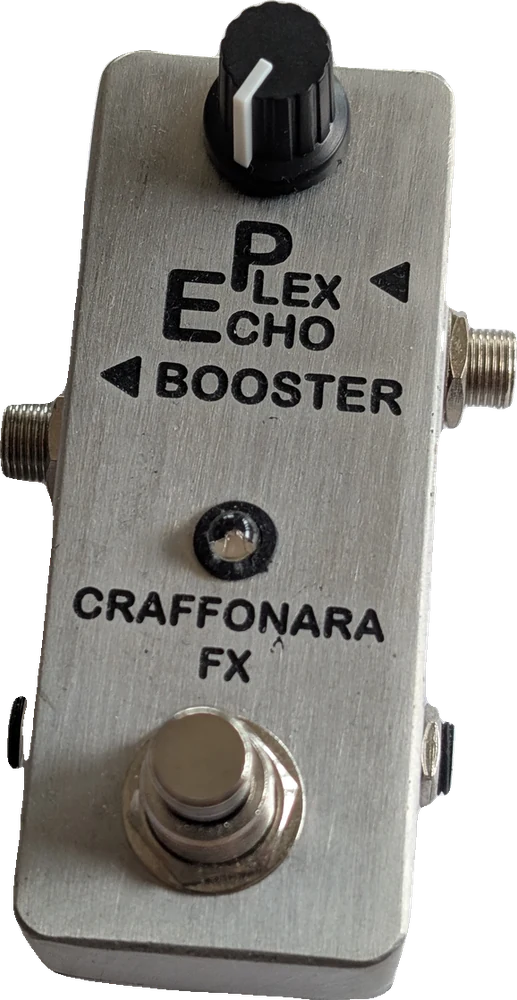
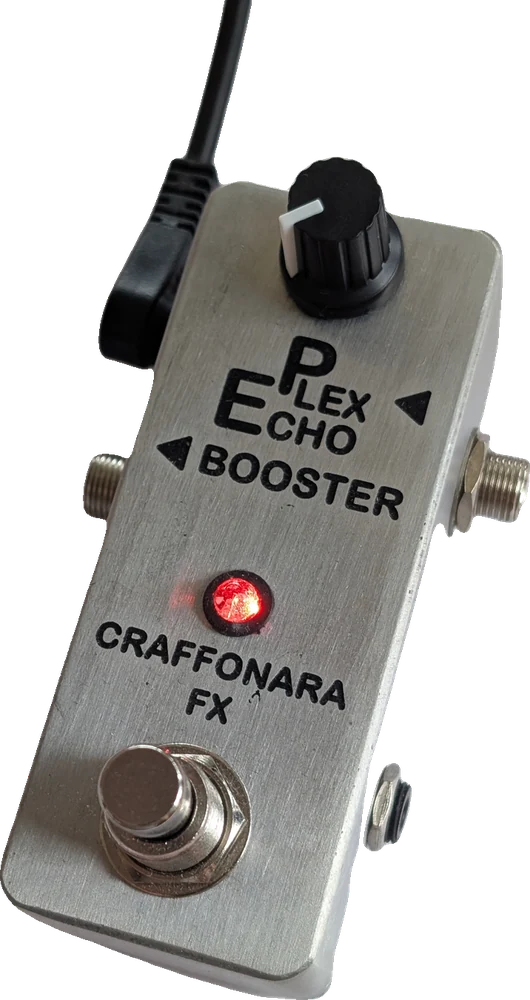
update

diff --git a/products.js b/products.js
@@ -57,8 +57,76 @@ const PRODUCTS = [
                 "9–18 V DC Center-Negative — mit 18 V für mehr Headroom und Dynamik",
             ],
         },
-        image: "img/ocd-top.webp",
+        image: "img/ocd-hero.webp",
         gallery: ["img/ocd-hero.webp", "img/ocd-top.webp", "img/ocd-side.webp", "img/ocd-angle.webp"],
+    },
+    {
+        id: "klon-dual-preset",
+        name: "KLON — Dual Preset MIDI Drive",
+        category: "custom",
+        price: { en: "on request", de: "auf Anfrage" },
+        status: "built-to-order",
+        color: "#A7ACB4",
+        knobs: 5,
+        switches: 1,
+        blurb: {
+            en: "High-end adaptation of the legendary Klon Centaur with the original circuit. Doubled Gain and Treble pots with relay-switched presets, germanium or LED clipping, and full MIDI control.",
+            de: "Highend-Adaption des legendären Klon Centaur mit der Originalbeschaltung. Doppelte Gain- und Treble-Potis mit relaisgeschalteten Presets, Germanium- oder LED-Clipping und vollständige MIDI-Steuerung.",
+        },
+        specs: {
+            en: [
+                "Original Klon Centaur circuit — GAIN, TREBLE, VOL",
+                "Dual GAIN + TREBLE presets, relay-switched: LED off = upper pot, LED on = lower pot",
+                "CLIP toggle: GE = stock germanium diodes, LD = LED clipping for a more aggressive drive",
+                "MIDI IN / THRU (TRS): CC 00 recalls all four combos, CC 10/30 per channel",
+                "Silent soft-touch footswitch, relay true bypass",
+                "9 V DC center-negative only — do NOT run at 18 V",
+            ],
+            de: [
+                "Originale Klon-Centaur-Schaltung — GAIN, TREBLE, VOL",
+                "Duale GAIN- + TREBLE-Presets, relaisgeschaltet: LED aus = oberes Poti, LED an = unteres Poti",
+                "CLIP-Schalter: GE = originale Germanium-Dioden, LD = LED-Clipping für aggressiveren Drive",
+                "MIDI IN / THRU (TRS): CC 00 ruft alle vier Kombis ab, CC 10/30 pro Kanal",
+                "Geräuschloser Soft-Touch-Fußschalter, Relais True Bypass",
+                "Nur 9 V DC Center-Negative — NICHT mit 18 V betreiben",
+            ],
+        },
+        image: "img/klon-hero.webp",
+        gallery: ["img/klon-hero.webp", "img/klon-top.webp", "img/klon-side.webp", "img/klon-angle.webp"],
+    },
+    {
+        id: "univibe-dual-preset",
+        name: "UNI VIBE — Dual Preset MIDI Vibe",
+        category: "custom",
+        price: { en: "on request", de: "auf Anfrage" },
+        status: "built-to-order",
+        color: "#A7ACB4",
+        knobs: 6,
+        switches: 1,
+        blurb: {
+            en: "Classic Uni-Vibe swirl with doubled Speed and Depth pots, relay-switched presets and full MIDI control. The MIX knob blends the effect signal, and MODE switches between chorus/vibe and tremolo.",
+            de: "Klassischer Uni-Vibe-Swirl mit doppelten Speed- und Depth-Potis, relaisgeschalteten Presets und vollständiger MIDI-Steuerung. Der MIX-Regler blendet das Effektsignal, MODE schaltet zwischen Chorus/Vibe und Tremolo um.",
+        },
+        specs: {
+            en: [
+                "Dual SPEED + DEPTH presets, relay-switched — by soft-touch button or MIDI",
+                "MIX control blends the vibe/tremolo signal with your dry tone",
+                "MODE button switches between vibe and tremolo (green LED ring)",
+                "VOL control for unity or boosted output",
+                "MIDI IN / THRU (TRS) for preset recall and effect switching",
+                "Silent soft-touch footswitch, 9 V DC center-negative",
+            ],
+            de: [
+                "Duale SPEED- + DEPTH-Presets, relaisgeschaltet — per Soft-Touch-Taster oder MIDI",
+                "MIX-Regler blendet das Vibe-/Tremolo-Signal mit deinem trockenen Ton",
+                "MODE-Taster schaltet zwischen Vibe und Tremolo um (grüner LED-Ring)",
+                "VOL-Regler für Unity-Gain oder Boost",
+                "MIDI IN / THRU (TRS) für Preset-Abruf und Effekt-Schaltung",
+                "Geräuschloser Soft-Touch-Fußschalter, 9 V DC Center-Negative",
+            ],
+        },
+        image: "img/univibe-hero.webp",
+        gallery: ["img/univibe-hero.webp", "img/univibe-top.webp", "img/univibe-angle.webp", "img/univibe-angle2.webp"],
     },
     {
         id: "ep-booster",
@@ -91,7 +159,7 @@ const PRODUCTS = [
                 "9–18 V DC Center-Negative — 18 V für mehr Headroom",
             ],
         },
-        image: "img/ep-top.webp",
+        image: "img/ep-hero.webp",
         gallery: ["img/ep-hero.webp", "img/ep-top.webp", "img/ep-side.webp", "img/ep-angle.webp"],
     },
 ];

diff --git a/index.html b/index.html
@@ -30,6 +30,10 @@
 <link rel="preconnect" href="https://fonts.gstatic.com" crossorigin>
 <link href="https://fonts.googleapis.com/css2?family=Big+Shoulders+Display:wght@600;700;800&family=Archivo:wght@400;500;600&family=IBM+Plex+Mono:wght@400;500&family=Caveat:wght@600&display=swap" rel="stylesheet">
 <link rel="icon" type="image/svg+xml" href="logos/logo-midi-badge.svg">
+<link rel="icon" type="image/png" sizes="48x48" href="img/favicon-48.png">
+<link rel="icon" type="image/png" sizes="96x96" href="img/favicon-96.png">
+<link rel="icon" type="image/png" sizes="192x192" href="img/favicon-192.png">
+<link rel="apple-touch-icon" sizes="180x180" href="img/apple-touch-icon.png">
 <style>
     /* ============================================================
        CRAFFONARA FX — design tokens
@@ -432,7 +436,7 @@
     }
     .card:hover .mini-led { fill: var(--led); filter: drop-shadow(0 0 6px var(--led-glow)); }
     .card-art {
-        background: var(--panel-2);
+        background: radial-gradient(120% 90% at 50% 42%, #17191E 0%, #0A0B0D 62%, #050607 100%);
         display: flex;
         justify-content: center;
         padding: 26px 0 18px;
@@ -493,7 +497,7 @@
         grid-template-columns: 400px 1fr;
     }
     .modal-art {
-        background: var(--panel-2);
+        background: radial-gradient(130% 100% at 50% 40%, #17191E 0%, #0A0B0D 62%, #050607 100%);
         border-right: 1px solid var(--line);
         display: flex;
         align-items: center;